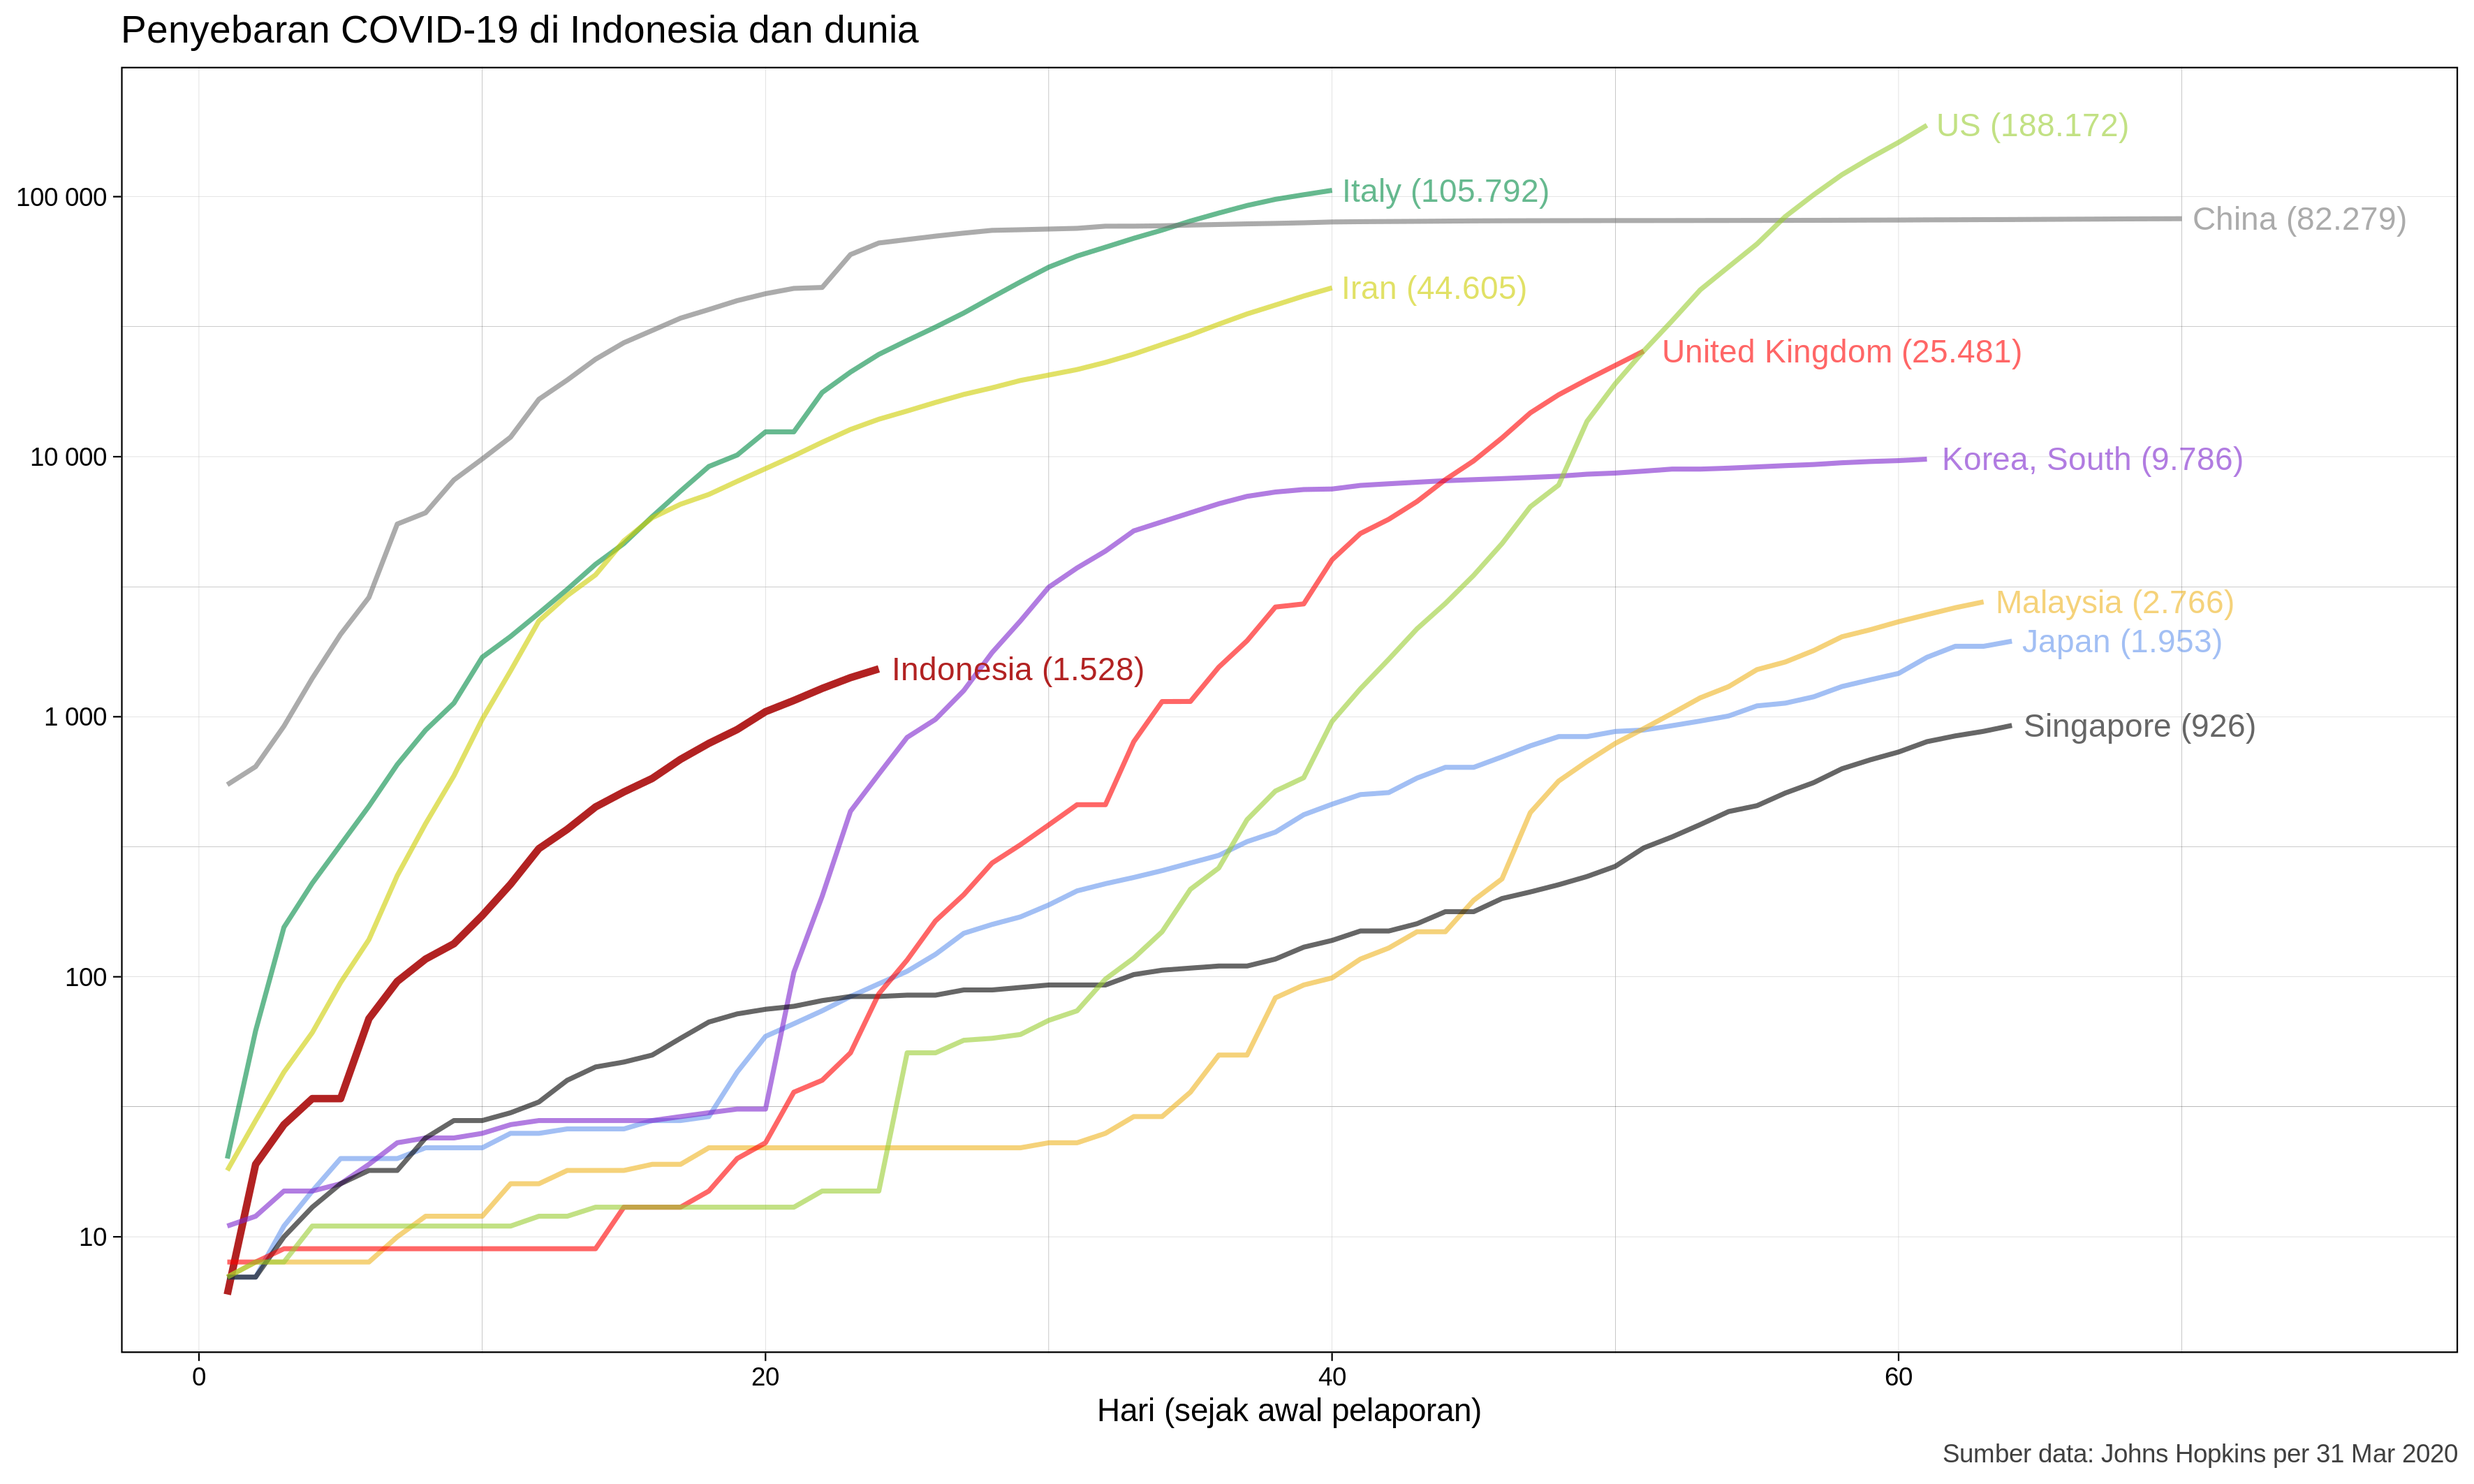
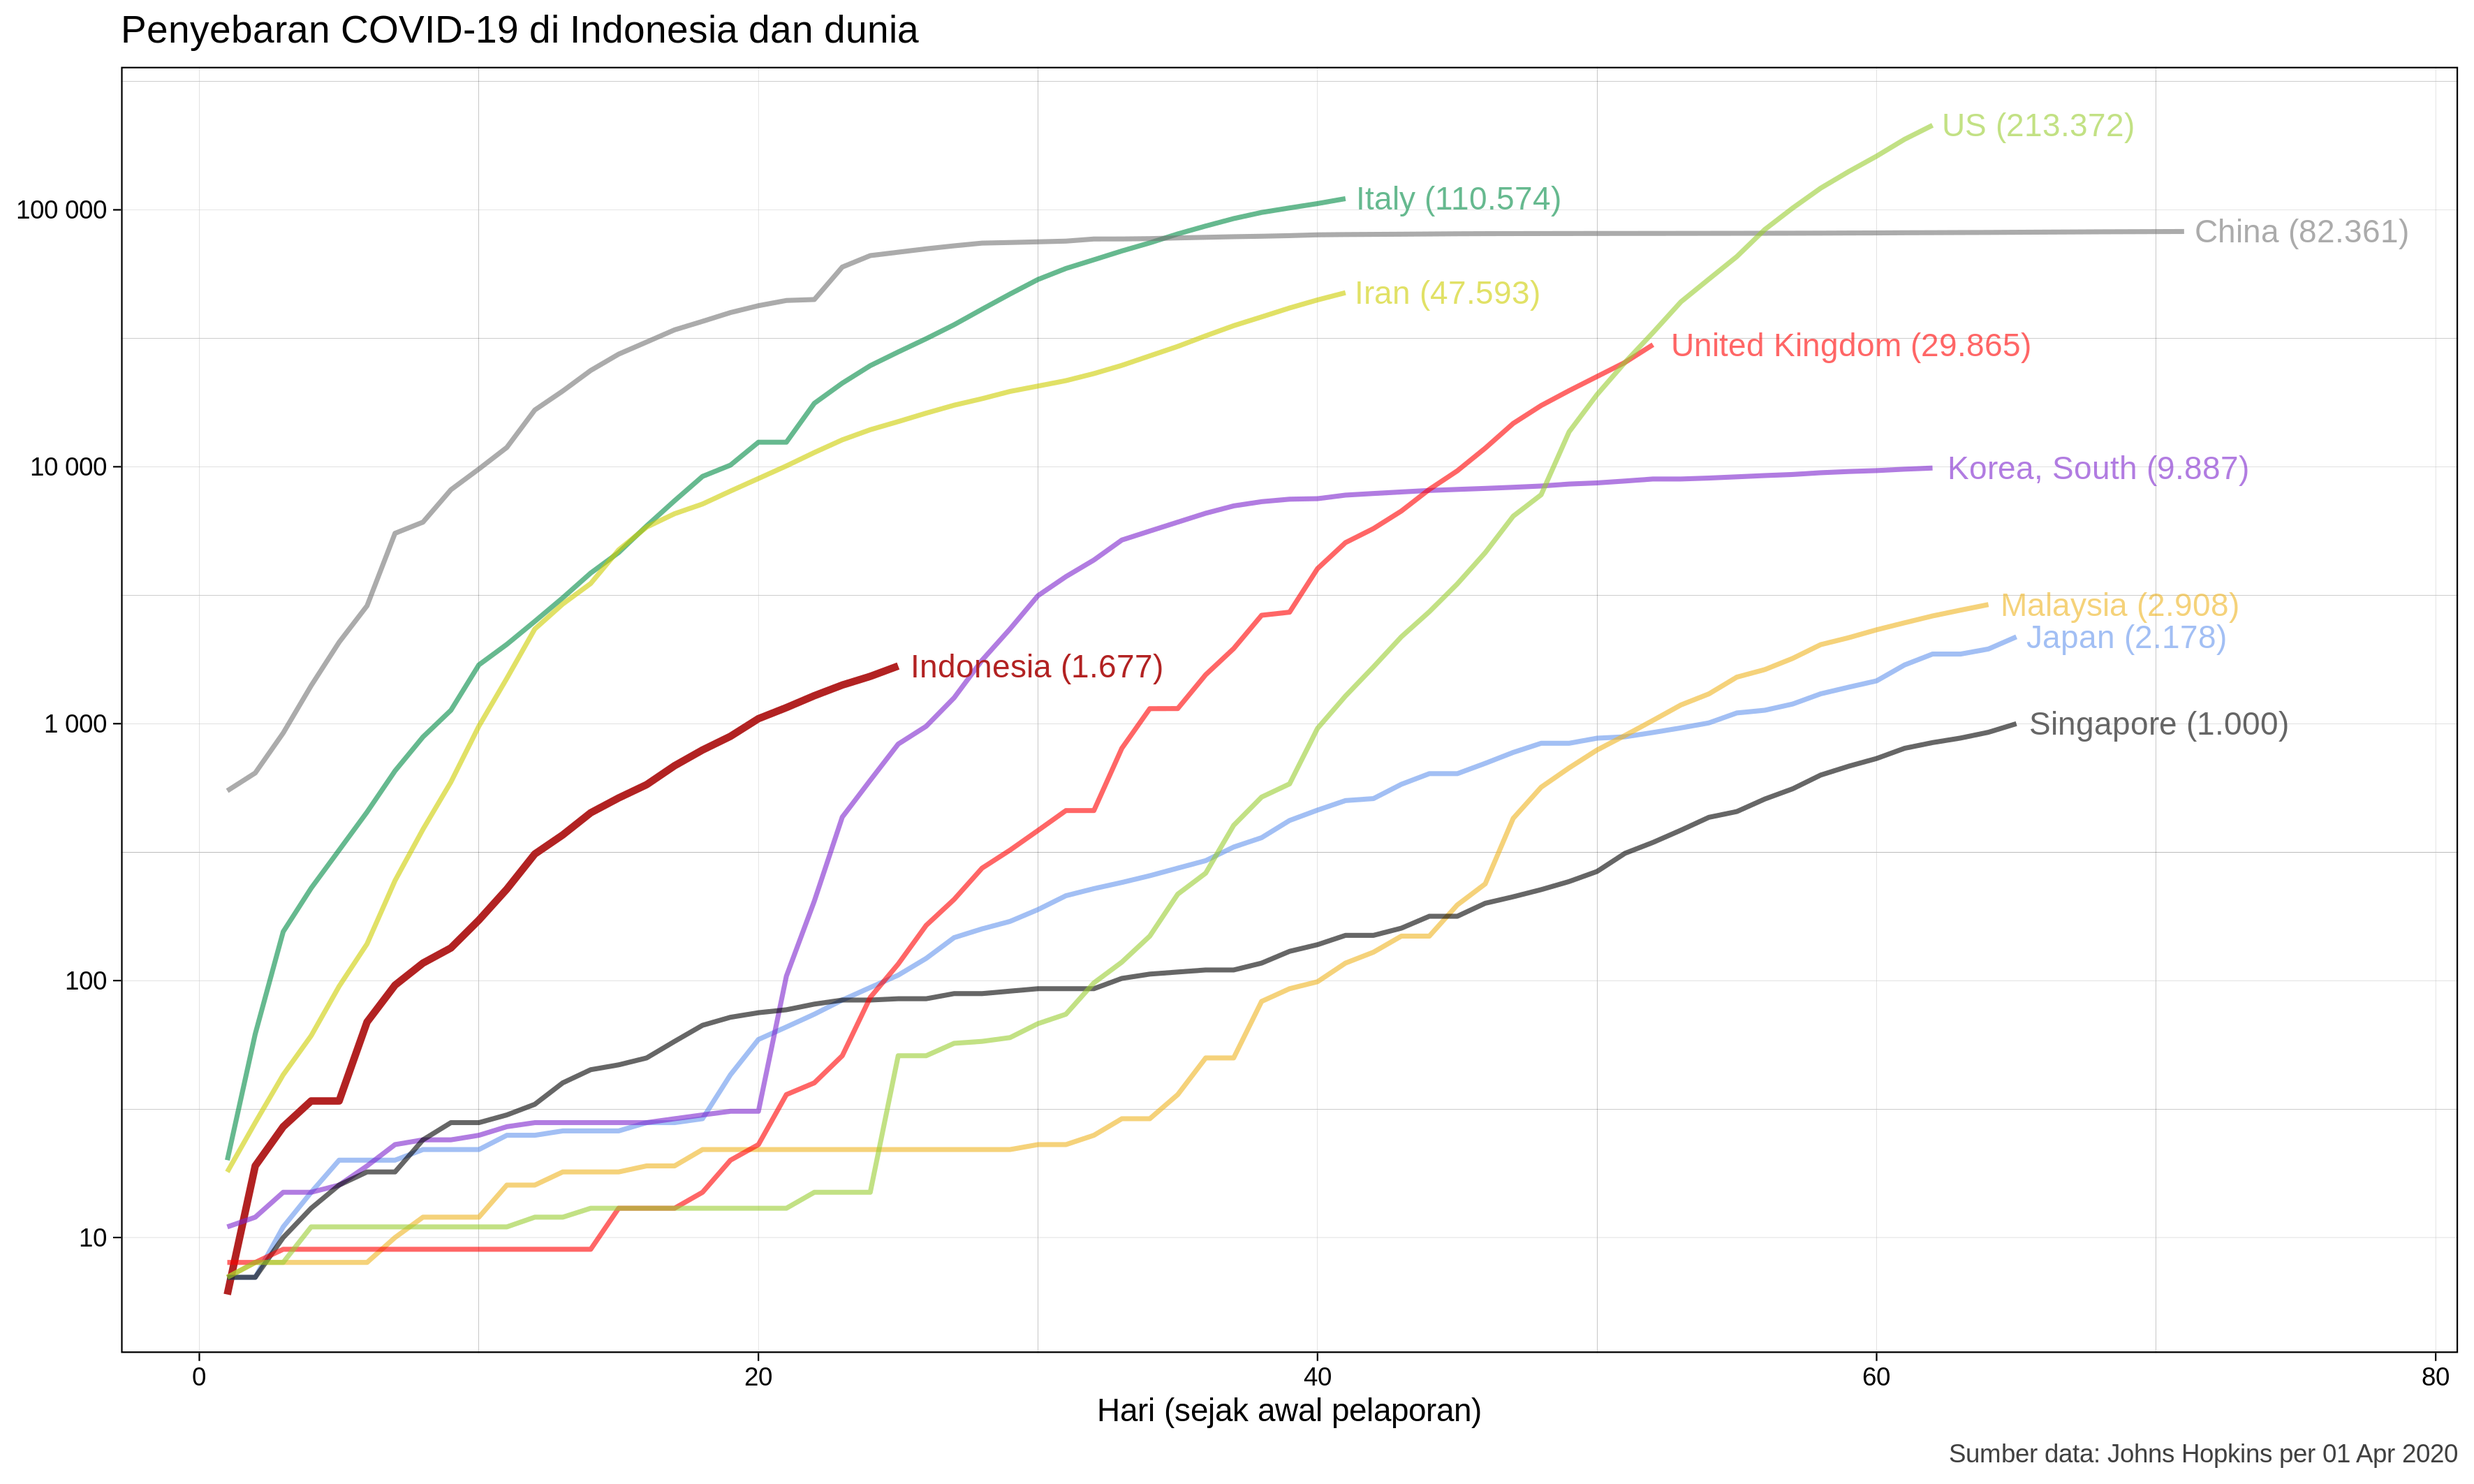
update 2 april

diff --git a/README.md b/README.md
@@ -4,18 +4,18 @@ _Repositori ini merupakan hasil klon dari_ [_analisis koronavirus di Ceko_](http
 
 Representasi grafis dari kasus penyebaran koronavirus baru (nCoV-19) di Indonesia. Sumber data dari basis data yang terkenal di dunia saat ini yaitu Universitas John Hopkins, tersedia di GitHub: https://github.com/CSSEGISandData/COVID-19
 
-Fakta jumlah kasus sesuai dengan data yang dilaporkan per 28 Maret 2020. Model sesuai dengan tren sejak 20 Maret 2020, yang hingga 31 Maret 2020 memperlihatkan selisih (menurun) dibanding tren.
+Fakta jumlah kasus sesuai dengan data yang dilaporkan per 1 April 2020. Model sesuai dengan tren sejak 25 Maret 2020 (sepekan terakhir). Jumlah kasus lebih rendah dari prediksi.
 
 <p align="center">
   <img src="./img/image.png" alt="trendline"/>
 </p>
 
-Kita berharap grafik akan terus mendatar (semendatar mungkin), berada di bawah titik-titik jumlah prediksi, yang berarti kita menang melawan koronavirus.
+Kita berharap grafik akan terus mendatar (semendatar mungkin), berada di bawah titik-titik (* * *) prediksi, yang berarti kita menang melawan koronavirus.
 
-Sebagai perbandingan diberikan pula tren dari negara lain di dunia. Kita dapat melihat bagaimana peningkatan kasus secara eksponensial mulai berhenti di Tiongkok dan Korea Selatan, melambat di Jepang dan Malaysia, namun tetap bertahan di Italia, Iran, dan USA.
+Sebagai pembanding diberikan pula grafik jumlah kasus Covid-19 dari negara lain di dunia. Kita dapat melihat bagaimana peningkatan kasus secara eksponensial mulai berhenti di Tiongkok dan Korea Selatan, melambat di Jepang, Singapura, dan Malaysia, namun tetap bertahan naik di Italia, Iran, dan Amerika Serikat, juga Inggris.
 
 <p align="center">
   <img src="./img/foreign.png" alt="foreign"/>
 </p>
 
-_Dimutakhirkan pada 1 April 2020_
+_Dimutakhirkan pada 2 April 2020_
